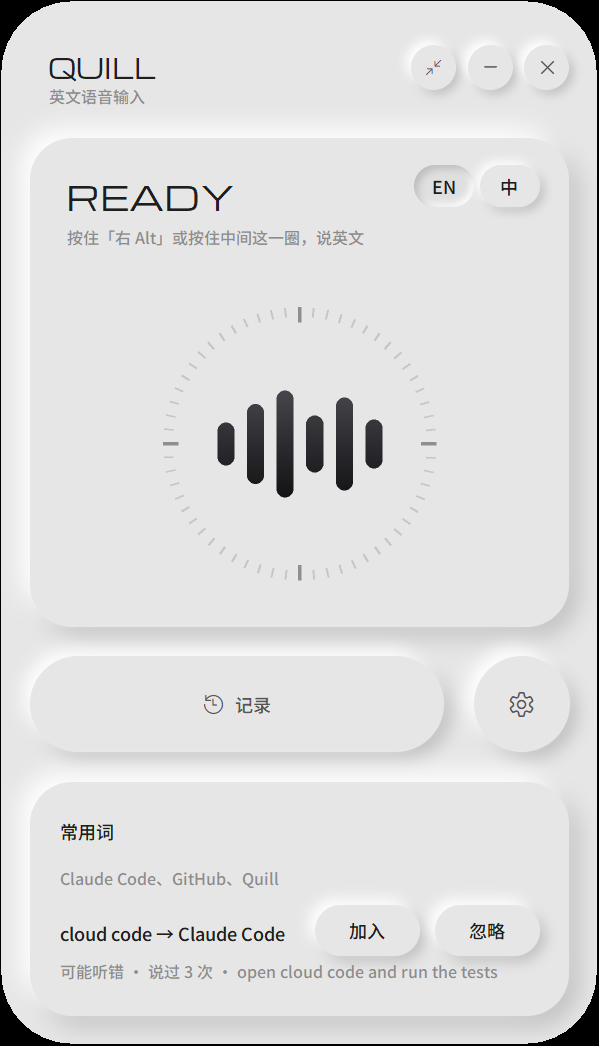
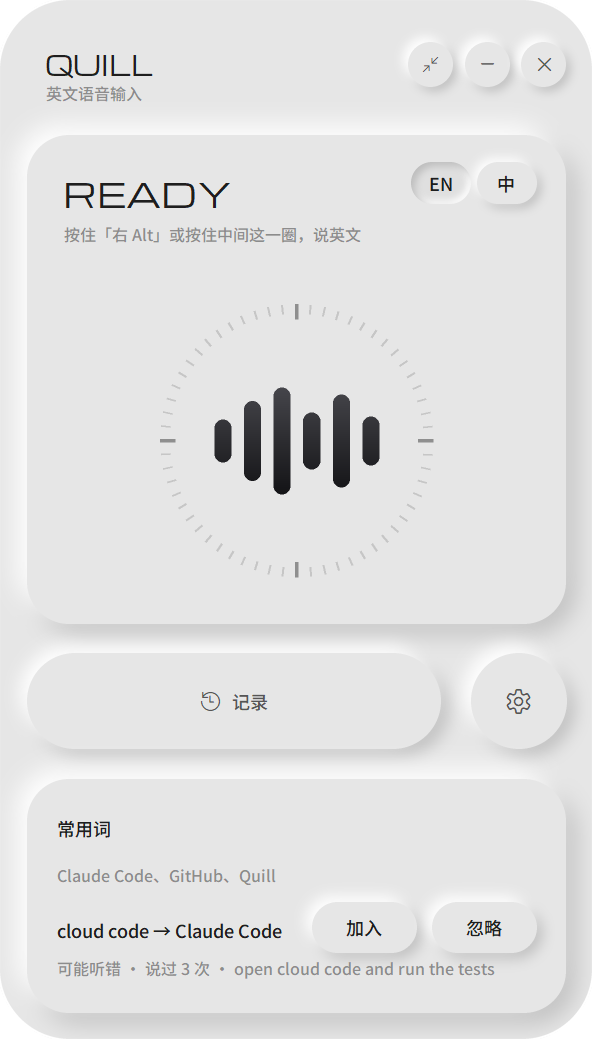
README: remove black border from main screenshot, show screenshots side by side

diff --git a/README.md b/README.md
@@ -40,9 +40,11 @@ all of that verbatim, or send my voice to the cloud. Quill does the cleanup loca
 - **100% local** — speech recognition and the language model run on your machine. History is a plain text file that never leaves it.
 - Soft-UI (neumorphism) interface, floating mini ball, history with one-click copy, built-in self-test.
 
-<img src="docs/main.png" width="300" alt="Quill main window">
-
-<img src="docs/words.png" width="760" alt="Word list: cloud is checked in context and typed as Claude">
+<p>
+<img src="docs/main.png" height="300" alt="Quill main window">
+&nbsp;
+<img src="docs/words.png" height="300" alt="Word list: cloud is checked in context and typed as Claude">
+</p>
 
 ## How it works
 
